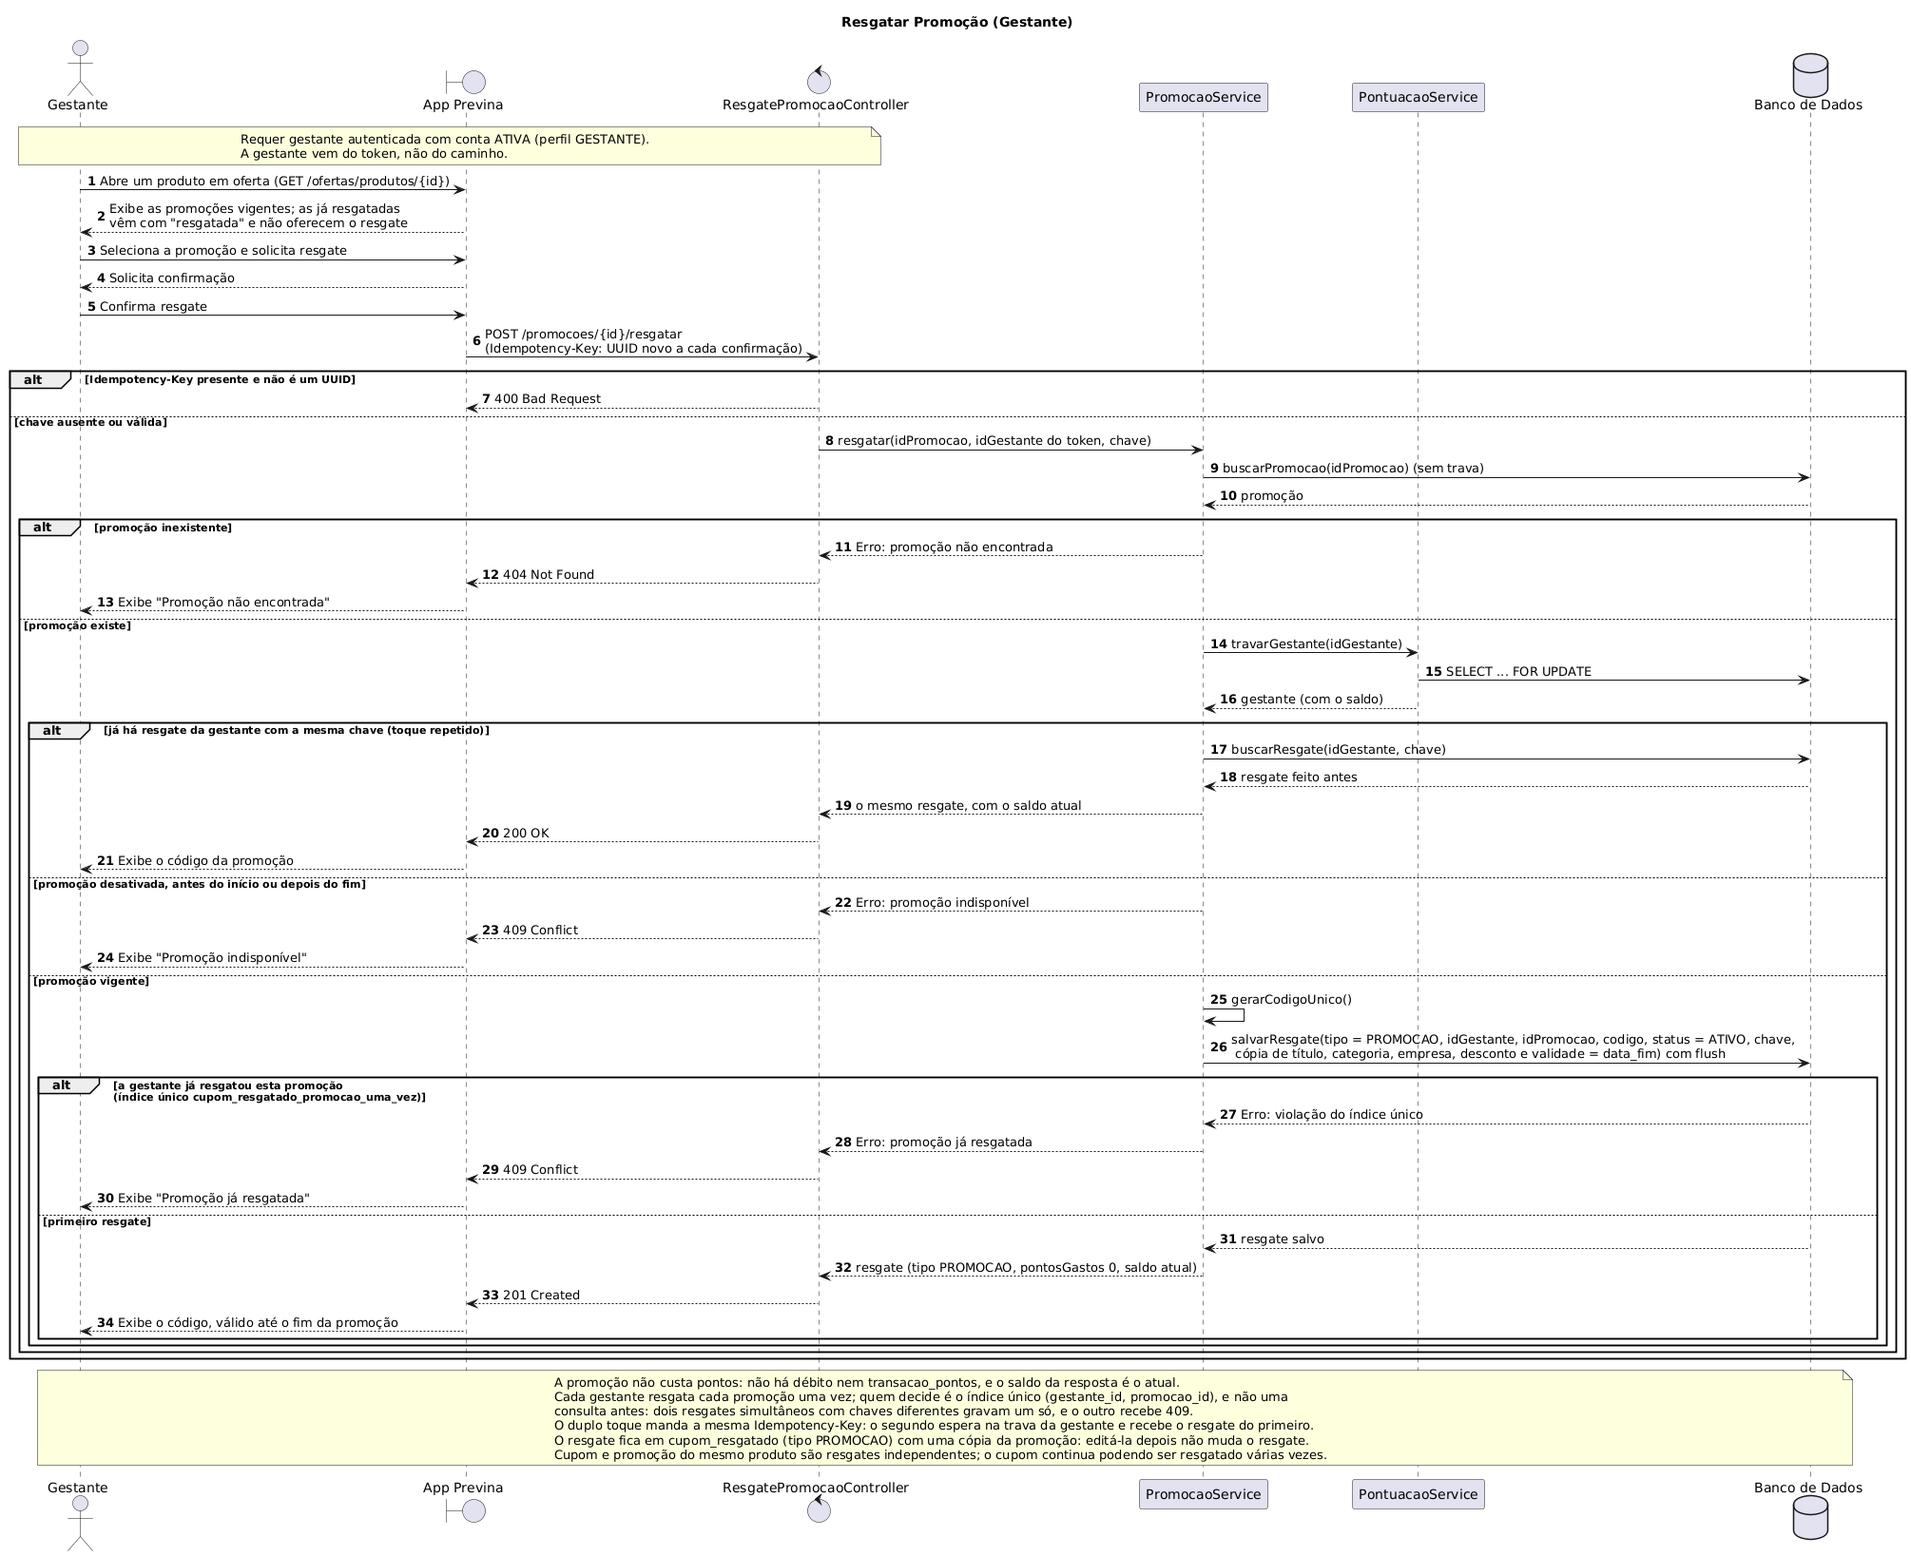
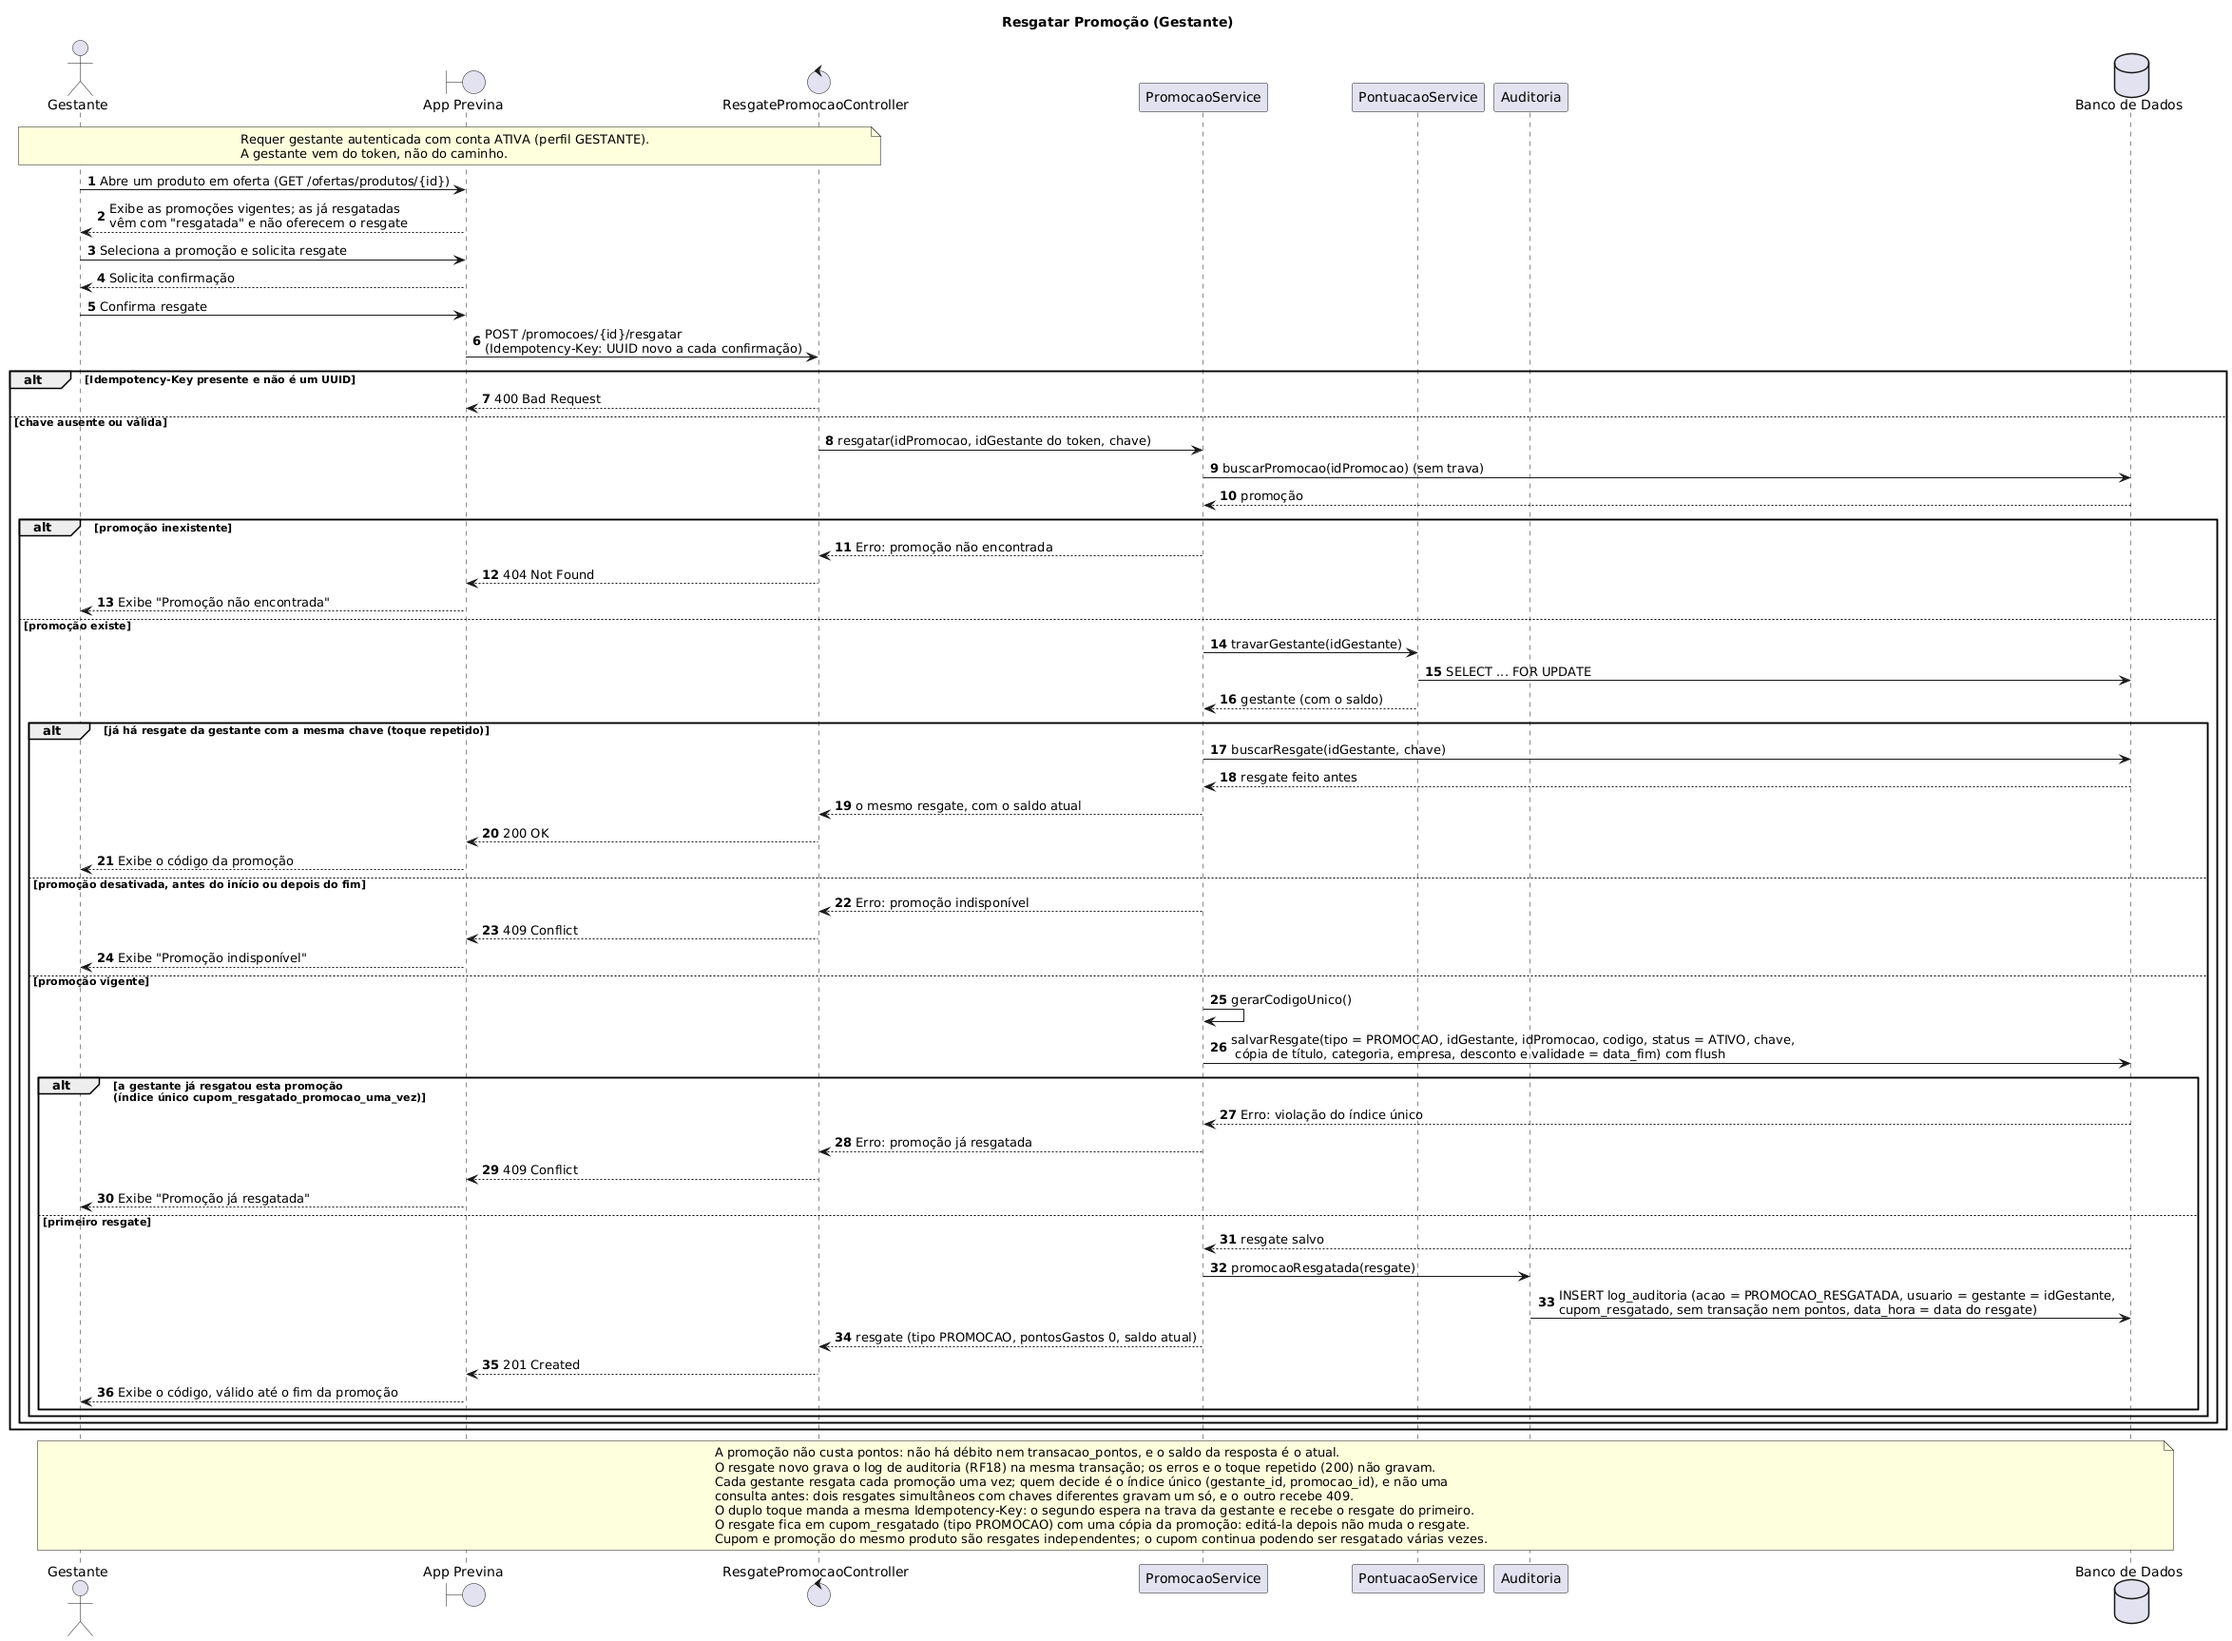
docs: log de auditoria no README, nos diagramas de sequência e no modelo lógico

diff --git a/docs/README.md b/docs/README.md
@@ -9,7 +9,7 @@ Cada diagrama tem a sua pasta, com o fonte (`.puml`, PlantUML) e a imagem (`.png
 
 Para gerar a imagem de novo depois de editar o fonte: `java -jar plantuml.jar -tpng <pasta>/<nome>.puml` (PlantUML 1.2024.7). O modelo lógico e os casos de uso usam o layout `smetana`, que não precisa do Graphviz.
 
-No modelo lógico, as tabelas em cinza ainda não têm migração (auditoria); as demais seguem as migrações V1 a V23.
+O modelo lógico segue as migrações V1 a V24.
 
 ## Decisões
 
@@ -109,9 +109,44 @@ No modelo lógico, as tabelas em cinza ainda não têm migração (auditoria); a
   cadastros sobrepostos simultâneos entram os dois no índice, cada um espera o outro na conferência da exclusão e o
   PostgreSQL derruba um com `deadlock detected`, que viraria `500`. A regra continua sendo a exclusão; a fila só faz o
   perdedor receber a violação dela.
-- **Auditoria pendente:** os diagramas de cadastro e de confirmação marcam `log_auditoria` como previsto: ainda não
-  tem migração nem é gravada. Por ora o rastro de quem resolveu está em `agendamento.confirmado_por` e
-  `agendamento.data_confirmacao`.
+- **Log de auditoria (RF18):** a tabela `log_auditoria` (`V24`) registra quem fez o quê nas confirmações de atendimento
+  e nas movimentações de pontos. Cada linha tem `data_hora`, `acao`, `usuario_id` (quem fez), `gestante_id` (sempre
+  preenchida: a do agendamento ou do resgate) e, conforme a ação, `agendamento_id`, `transacao_pontos_id` (o crédito
+  ou o débito) e `cupom_resgatado_id`; `pontos` é uma cópia dos pontos da transação, para ler o log sem juntar
+  tabelas. Ações:
+
+  | `acao` | Quando | `usuario_id` | Ligada a |
+  |---|---|---|---|
+  | `AGENDAMENTO_CRIADO` | `POST /agendamentos`, uma linha por item do cadastro | médico | agendamento |
+  | `AGENDAMENTO_REALIZADO` | `PUT /agendamentos/{id}/confirmar` | médico | agendamento, crédito e `pontos` |
+  | `AGENDAMENTO_NAO_COMPARECEU` | `PUT /agendamentos/{id}/nao-compareceu` | médico | agendamento |
+  | `CUPOM_RESGATADO` | `POST /cupons/{id}/resgatar`, só o resgate novo (`201`) | gestante | cupom resgatado, débito e `pontos` |
+  | `PROMOCAO_RESGATADA` | `POST /promocoes/{id}/resgatar`, só o resgate novo (`201`) | gestante | cupom resgatado (`pontos` nulo) |
+  | `RESGATE_VALIDADO` | `POST /empresas/cupons/validar`, só no `200` | empresa | cupom resgatado |
+
+  Garantias:
+  - **Mesma transação da operação:** os serviços chamam a `Auditoria` explicitamente, depois de gravar a operação (sem
+    AOP nem listeners). A `Auditoria` é `@Transactional(propagation = MANDATORY)`: sem a transação de quem chama, a
+    chamada falha em vez de gravar sozinha. Se a gravação do log falhar, a operação inteira é desfeita (sem desfecho,
+    crédito, débito, resgate ou validação), e um log nunca fica gravado sem a operação.
+  - **Só os caminhos que dão certo gravam:** os `400`, `404` e `409` não geram linha, nem a repetição do resgate com a
+    mesma `Idempotency-Key` (`200`), que devolve o resgate já registrado. Na validação, o log é o último passo do
+    caminho do `200`: o `409` `RESGATE_EXPIRADO` comita o `EXPIRADO` (`noRollbackFor`), mas não é uma validação e não
+    grava log; uma falha ao gravar o log não é `ConflitoException`, então o `noRollbackFor` não a cobre e a validação
+    é desfeita.
+  - **Uma linha por operação, também com concorrência:** o log vai depois da trava ou do `UPDATE` condicionado que
+    decide a operação. Duas confirmações simultâneas do mesmo agendamento gravam um crédito e uma linha
+    `AGENDAMENTO_REALIZADO` (a segunda espera a trava do agendamento e recebe `409`); duas validações simultâneas do
+    mesmo código gravam uma linha `RESGATE_VALIDADO`.
+  - **Hora da operação:** `data_hora` é a mesma hora da aplicação gravada na operação (`data_confirmacao` no desfecho,
+    `data_resgate` no resgate, `data_uso` na validação, a hora do cadastro no agendamento criado), e não o `now()` do
+    banco.
+  - **Só inserção:** o gatilho `log_auditoria_somente_insercao` barra `UPDATE` e `DELETE` no banco; a entidade
+    `LogAuditoria` é `@Immutable`, e o `LogAuditoriaRepository` só expõe `save` e `saveAll`. Os testes de integração
+    não limpam o banco (os dados são únicos por teste), então o gatilho não atrapalha.
+
+  O log começa vazio (sem preencher o histórico de antes da `V24`), e ainda não há rota nem tela para lê-lo; o rastro
+  de quem resolveu cada agendamento continua também em `agendamento.confirmado_por` e `agendamento.data_confirmacao`.
 - **Regra de negócio violada:** `409 Conflict` (`ConflitoException`); dados inválidos, `400 Bad Request`. A API não usa 422.
 - **Código estável nos erros:** os `409` (e os `404`) que os fronts tratam de forma própria levam, ao lado de
   `message`, o campo `codigo` com o nome de uma constante de `CodigoErro`, por exemplo

diff --git a/README.md b/README.md
@@ -78,7 +78,7 @@ src/main/java/com/cozyshelf/previna/
     config/         Spring Security e Spring MVC
     email/          envio de e-mails
 src/main/resources/
-  db/migration/     migrações Flyway (V1 a V23)
+  db/migration/     migrações Flyway (V1 a V24)
   db/seed/          dados de exemplo, só no profile dev
 docs/               modelo lógico, casos de uso e diagramas de sequência (ver docs/README.md)
 ```
